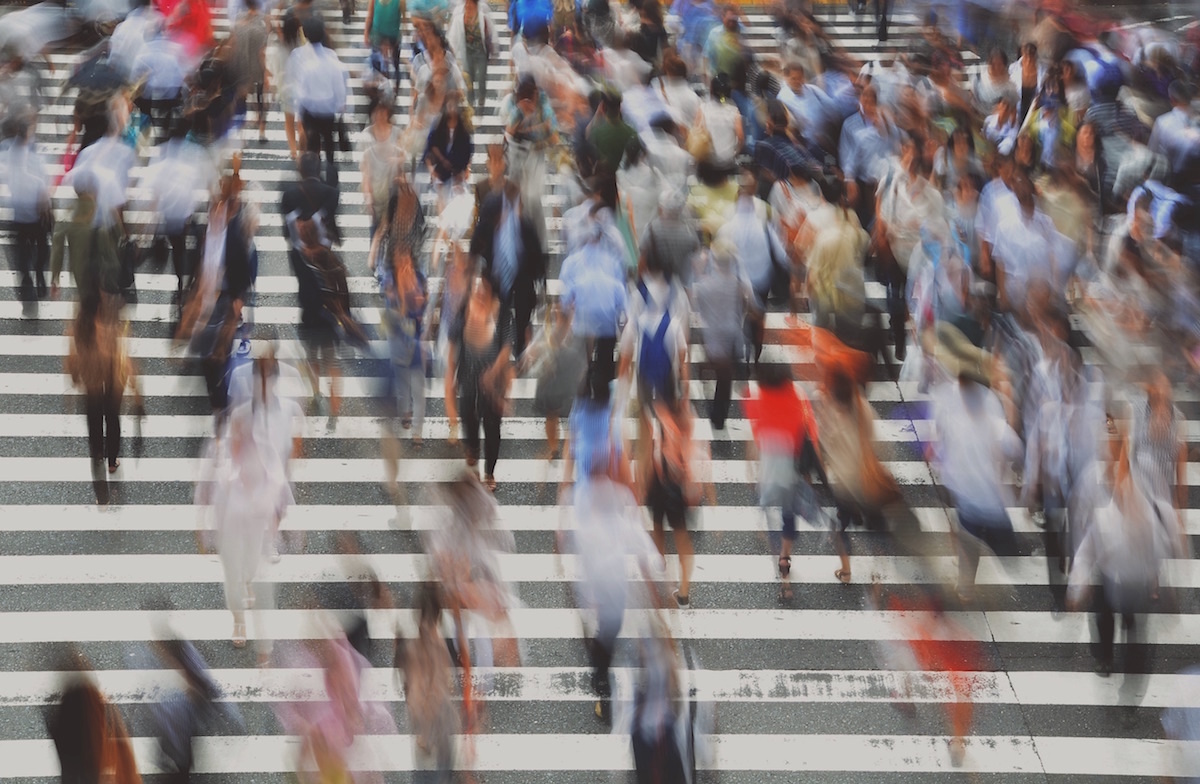
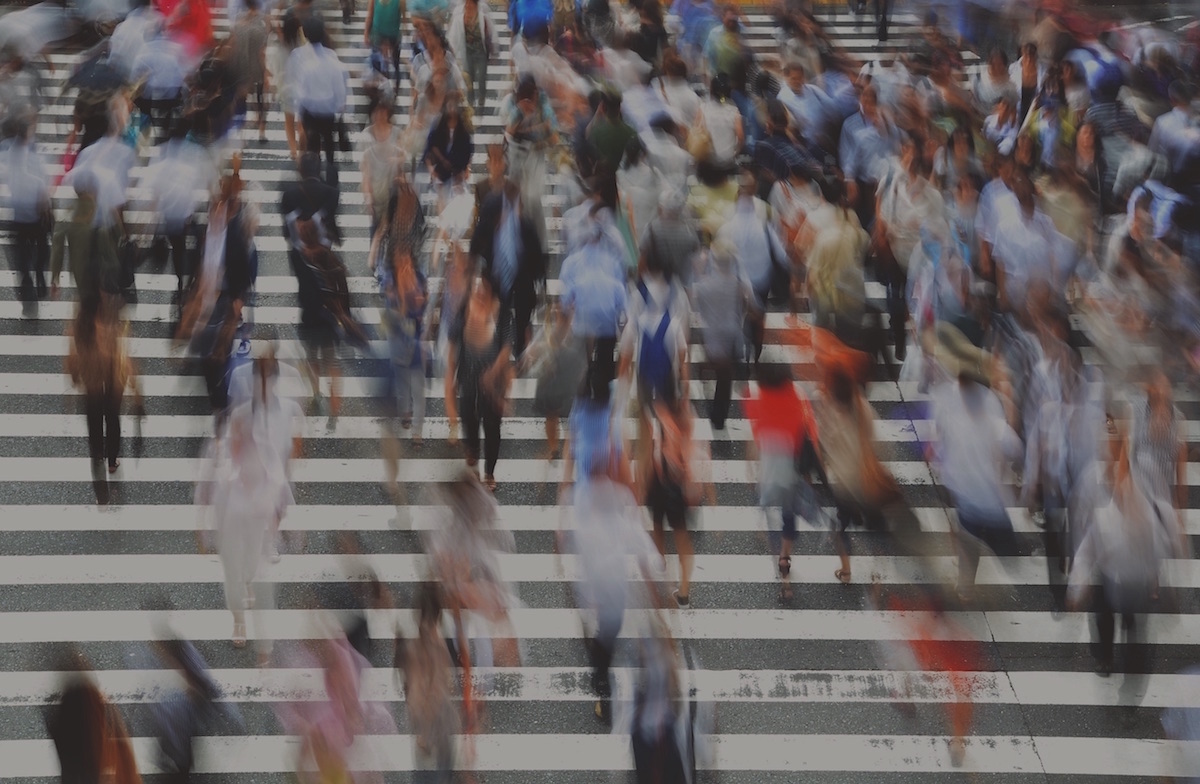
homa page images and design

diff --git a/lex.css b/lex.css
@@ -18,7 +18,7 @@ html, body {
 body {
     /* padding-top: 50px; */
     padding-bottom: 20px;
-    color: #666;
+    color: #555;
     background: White;
     font-smooth: never;
 }
@@ -394,19 +394,24 @@ footer .copyright a {
     .image-streach {
         margin: 0 -15px;
         margin-bottom: 25px;
+    }
+    .image-shadow {
         position: relative;
         float: left;
     }
-    .image-streach:before {
+
+    .image-shadow:before {
 		content: "";
 		position: absolute;
 		top: 0;
 		bottom: 0;
 		left: 0;
 		right: 0;
-		box-shadow: inset 0 0 60px rgba(80,80,0,0.9);
+		box-shadow: inset 0 0 40px 10px rgba(170, 150, 0, 0.3);
+		border-radius: 6px;
 	}
-    .image-streach img {
+    .image-shadow img {
+		border-radius: 6px;
     }
     /* --- --- --- */
     ul.half-width {

diff --git a/partials/our_team_home.html b/partials/our_team_home.html
@@ -30,7 +30,7 @@
 		    </div>
 		    <div class="col-sm-3 text-center" ng-repeat="each in each.profiles">
 				<div class="image mobile">
-				    <a href="{{ each.profileURL }}"><img class="img-circle" width="225" height="225" src="/assets/profiles/{{ each.profileURL }}.{{ each.profileImgExt }}"></a>
+				    <a href="{{ each.profileURL }}"><img class="img-circle" width="225" height="225" src="assets/profiles/{{ each.profileURL }}.{{ each.profileImgExt }}"></a>
 				</div>
 			    <h3><a href="{{ each.profileURL }}"> {{ each.profileName }} </a> <span> {{ each.profileTitle }} </span></h3>
     		</div>

diff --git a/partials/home.html b/partials/home.html
@@ -84,7 +84,8 @@
             </div>
             <div class="col-sm-12 col-lg-4 col-lg-pull-4">
                 <div class="image-streach">
-                    <img class="img-responsive" src="assets/homeOurJurists.png">
+                    <img class="img-responsive visible-sm-block visible-md-block" src="assets/homeOurJurists-sm.png">
+                    <img class="img-responsive hidden-sm hidden-md" src="assets/homeOurJurists.png">
                 </div>
                 <div class="gutter">
                     <h2>Our Jurists</h2>
